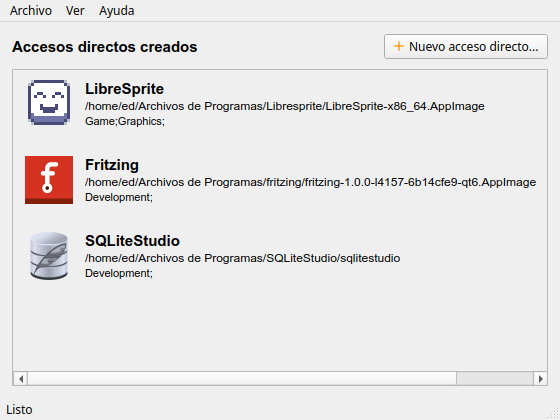
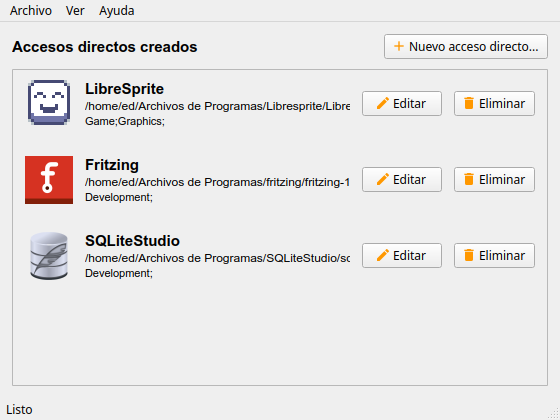
feat: editar accesos directos y empaquetado .deb con PyInstaller

diff --git a/main.py b/main.py
@@ -27,6 +27,7 @@ from PyQt6.QtWidgets import (
     QMessageBox,
     QPushButton,
     QScrollArea,
+    QSizePolicy,
     QVBoxLayout,
     QWidget,
 )
@@ -37,13 +38,21 @@ PROGRAM_VERSION = "0.2.0"
 PROGRAM_DESCRIPTION = "Programa que registra en los menús de Gnome/Xfce Aplicaciones descargadas"
 PROGRAM_CREDITS = "Idea y programación: @Edfasano70"
 
-RESOURCES_DIR = Path(__file__).resolve().parent / "resources"
+def _base_dir() -> Path:
+    """Directory that holds bundled resources (handles PyInstaller builds)."""
+    if getattr(sys, "frozen", False):
+        return Path(getattr(sys, "_MEIPASS", Path(__file__).resolve().parent))
+    return Path(__file__).resolve().parent
+
+
+BASE_DIR = _base_dir()
+RESOURCES_DIR = BASE_DIR / "resources"
 ICONS_DIR = RESOURCES_DIR / "icons"
 LOGO_FILE = RESOURCES_DIR / "logo.png"
 
 CONFIG_DIR = Path.home() / ".config" / "dotdesktop"
 CONFIG_FILE = CONFIG_DIR / "config.xml"
-REGISTRY_FILE = Path(__file__).resolve().parent / "launchers.json"
+REGISTRY_FILE = CONFIG_DIR / "launchers.json"
 
 APPLICATIONS_DIR = Path.home() / ".local" / "share" / "applications"
 
@@ -208,8 +217,13 @@ def create_desktop_entry(
     icon_path: str = "",
     categories: str = DEFAULT_CATEGORIES,
     overwrite: bool = False,
+    previous_filename: str | None = None,
 ) -> Path:
-    """Write a .desktop launcher under APPLICATIONS_DIR and return its path."""
+    """Write a .desktop launcher under APPLICATIONS_DIR and return its path.
+
+    When ``previous_filename`` is given (editing), the old file is removed if the
+    generated name changed, and its registry entry is replaced.
+    """
     name = name.strip()
     if not name:
         raise ValueError("El nombre no puede estar vacío")
@@ -222,7 +236,8 @@ def create_desktop_entry(
 
     APPLICATIONS_DIR.mkdir(parents=True, exist_ok=True)
     dest = APPLICATIONS_DIR / f"{_slugify(name)}.desktop"
-    if dest.exists() and not overwrite:
+    is_same_file = previous_filename is not None and dest.name == previous_filename
+    if dest.exists() and not is_same_file and not overwrite:
         raise FileExistsError(dest)
 
     dest.write_text(build_desktop_entry(name, exec_path, icon_path, categories), encoding="utf-8")
@@ -230,12 +245,19 @@ def create_desktop_entry(
     refresh_desktop_database()
 
     registry = load_registry()
+    if previous_filename is not None and previous_filename != dest.name:
+        registry.pop(previous_filename, None)
+        old_path = APPLICATIONS_DIR / previous_filename
+        if old_path.exists():
+            old_path.unlink()
+
+    existing = registry.get(dest.name, {})
     registry[dest.name] = {
         "name": name,
         "exec": exec_path,
         "icon": icon_path,
         "categories": _normalize_categories(categories),
-        "created": datetime.now().isoformat(timespec="seconds"),
+        "created": existing.get("created", datetime.now().isoformat(timespec="seconds")),
     }
     save_registry(registry)
     return dest
@@ -340,11 +362,19 @@ class HelpDialog(QDialog):
 
 
 class LauncherDialog(QDialog):
-    """Formulario para crear un acceso directo .desktop."""
+    """Formulario para crear o editar un acceso directo .desktop."""
 
-    def __init__(self, parent=None, dark_mode: bool = False) -> None:
+    def __init__(
+        self,
+        parent=None,
+        dark_mode: bool = False,
+        filename: str | None = None,
+        info: dict | None = None,
+    ) -> None:
         super().__init__(parent)
-        self.setWindowTitle("Nuevo acceso directo")
+        self.filename = filename
+        editing = filename is not None and info is not None
+        self.setWindowTitle("Editar acceso directo" if editing else "Nuevo acceso directo")
         self.setWindowIcon(_logo_icon())
         self.setMinimumWidth(460)
         self.setWindowFlags(self.windowFlags() & ~Qt.WindowType.WindowContextHelpButtonHint)
@@ -375,15 +405,26 @@ class LauncherDialog(QDialog):
         cancel_btn.setFixedWidth(90)
         cancel_btn.clicked.connect(self.reject)
         buttons.addWidget(cancel_btn)
-        create_btn = QPushButton("Crear")
-        create_btn.setFixedWidth(90)
-        create_btn.setDefault(True)
-        create_btn.clicked.connect(self._create)
-        buttons.addWidget(create_btn)
+        save_btn = QPushButton("Guardar" if editing else "Crear")
+        save_btn.setFixedWidth(90)
+        save_btn.setDefault(True)
+        save_btn.clicked.connect(self._create)
+        buttons.addWidget(save_btn)
         layout.addLayout(buttons)
+
+        if editing:
+            self._apply_info(info)
 
         if dark_mode:
             self.setStyleSheet(DARK_STYLE)
+
+    def _apply_info(self, info: dict) -> None:
+        self.name_edit.setText(info.get("name", ""))
+        self.exec_edit.setText(info.get("exec", ""))
+        self.icon_edit.setText(info.get("icon", ""))
+        selected = {item for item in info.get("categories", "").split(";") if item}
+        for category, check in self.category_checks.items():
+            check.setChecked(category in selected)
 
     def _with_browse(self, field: QLineEdit, handler) -> QWidget:
         container = QWidget()
@@ -446,8 +487,9 @@ class LauncherDialog(QDialog):
                 return
 
         dest = APPLICATIONS_DIR / f"{_slugify(name)}.desktop"
+        is_same_file = self.filename is not None and dest.name == self.filename
         overwrite = False
-        if dest.exists():
+        if dest.exists() and not is_same_file:
             confirm = QMessageBox.question(
                 self,
                 "Ya existe",
@@ -458,21 +500,23 @@ class LauncherDialog(QDialog):
             overwrite = True
 
         try:
-            created = create_desktop_entry(
+            saved = create_desktop_entry(
                 name,
                 exec_path,
                 self.icon_edit.text(),
                 self._selected_categories(),
                 overwrite=overwrite,
+                previous_filename=self.filename,
             )
         except (ValueError, OSError) as error:
-            QMessageBox.critical(self, "Error", f"No se pudo crear el acceso directo:\n{error}")
+            QMessageBox.critical(self, "Error", f"No se pudo guardar el acceso directo:\n{error}")
             return
 
+        action = "actualizó" if self.filename is not None else "creó"
         QMessageBox.information(
             self,
-            "Acceso directo creado",
-            f"Se creó '{created.name}' en:\n{created.parent}",
+            f"Acceso directo {'actualizado' if self.filename else 'creado'}",
+            f"Se {action} '{saved.name}' en:\n{saved.parent}",
         )
         self.accept()
 
@@ -480,7 +524,7 @@ class LauncherDialog(QDialog):
 class LauncherCard(QFrame):
     """Tarjeta que representa un acceso directo creado por el programa."""
 
-    def __init__(self, filename: str, info: dict, on_delete) -> None:
+    def __init__(self, filename: str, info: dict, on_edit, on_delete) -> None:
         super().__init__()
         self.filename = filename
         self.setObjectName("launcherCard")
@@ -507,13 +551,23 @@ class LauncherCard(QFrame):
         exec_label.setFont(QFont("Arial", 9))
         text_layout.addWidget(exec_label)
 
+        labels = [name_label, exec_label]
         categories = info.get("categories", "")
         if categories:
             category_label = QLabel(categories)
             category_label.setFont(QFont("Arial", 8))
             text_layout.addWidget(category_label)
+            labels.append(category_label)
+
+        for label in labels:
+            label.setSizePolicy(QSizePolicy.Policy.Ignored, QSizePolicy.Policy.Preferred)
+            label.setToolTip(label.text())
 
         layout.addLayout(text_layout, 1)
+
+        edit_btn = QPushButton(_icon("edit"), "Editar")
+        edit_btn.clicked.connect(lambda: on_edit(self.filename))
+        layout.addWidget(edit_btn)
 
         delete_btn = QPushButton(_icon("delete"), "Eliminar")
         delete_btn.clicked.connect(lambda: on_delete(self.filename))
@@ -585,6 +639,7 @@ class MainWindow(QMainWindow):
 
         self.scroll = QScrollArea()
         self.scroll.setWidgetResizable(True)
+        self.scroll.setHorizontalScrollBarPolicy(Qt.ScrollBarPolicy.ScrollBarAlwaysOff)
         self.scroll.setWidget(self.cards_container)
         outer.addWidget(self.scroll)
 
@@ -606,8 +661,17 @@ class MainWindow(QMainWindow):
             return
 
         for filename, info in registry.items():
-            card = LauncherCard(filename, info, self._delete_launcher)
+            card = LauncherCard(filename, info, self._edit_launcher, self._delete_launcher)
             self.cards_layout.insertWidget(self.cards_layout.count() - 1, card)
+
+    def _edit_launcher(self, filename: str) -> None:
+        info = load_registry().get(filename)
+        if info is None:
+            self._refresh_cards()
+            return
+        dialog = LauncherDialog(self, dark_mode=self.dark_mode, filename=filename, info=info)
+        if dialog.exec() == QDialog.DialogCode.Accepted:
+            self._refresh_cards()
 
     def _delete_launcher(self, filename: str) -> None:
         info = load_registry().get(filename, {})

diff --git a/tests/test_main.py b/tests/test_main.py
@@ -1,6 +1,7 @@
 import xml.etree.ElementTree as ET
 
 import pytest
+from PyQt6.QtWidgets import QPushButton
 
 import main
 from main import AboutDialog, HelpDialog, LauncherDialog, MainWindow
@@ -142,6 +143,55 @@ def test_launcher_category_checkboxes(qapp):
     dialog.category_checks["Game"].setChecked(True)
     dialog.category_checks["Graphics"].setChecked(True)
     assert dialog._selected_categories() == "Game;Graphics;"
+
+
+def test_launcher_dialog_prefills_when_editing(qapp):
+    info = {
+        "name": "Mi Editor",
+        "exec": "/opt/editor",
+        "icon": "/tmp/i.png",
+        "categories": "Game;Graphics;",
+    }
+    dialog = LauncherDialog(filename="mi-editor.desktop", info=info)
+    assert dialog.windowTitle() == "Editar acceso directo"
+    assert dialog.name_edit.text() == "Mi Editor"
+    assert dialog.exec_edit.text() == "/opt/editor"
+    assert dialog.icon_edit.text() == "/tmp/i.png"
+    assert dialog._selected_categories() == "Game;Graphics;"
+
+
+def test_card_has_edit_and_delete_buttons(qapp):
+    card = main.LauncherCard("x.desktop", {"name": "X"}, lambda f: None, lambda f: None)
+    labels = {button.text() for button in card.findChildren(QPushButton)}
+    assert {"Editar", "Eliminar"} <= labels
+
+
+def test_create_desktop_entry_renames(tmp_path, monkeypatch):
+    monkeypatch.setattr(main, "APPLICATIONS_DIR", tmp_path)
+    monkeypatch.setattr(main, "refresh_desktop_database", lambda: None)
+    old = main.create_desktop_entry("Mi Editor", "/usr/bin/editor")
+
+    new = main.create_desktop_entry(
+        "Mi Editor Nuevo", "/usr/bin/editor", previous_filename=old.name
+    )
+    assert new.name == "mi-editor-nuevo.desktop"
+    assert not old.exists()
+    registry = main.load_registry()
+    assert list(registry) == ["mi-editor-nuevo.desktop"]
+    assert registry[new.name]["name"] == "Mi Editor Nuevo"
+
+
+def test_create_desktop_entry_edit_same_name(tmp_path, monkeypatch):
+    monkeypatch.setattr(main, "APPLICATIONS_DIR", tmp_path)
+    monkeypatch.setattr(main, "refresh_desktop_database", lambda: None)
+    dest = main.create_desktop_entry("Mi Editor", "/usr/bin/editor", categories="Game;")
+
+    again = main.create_desktop_entry(
+        "Mi Editor", "/usr/bin/other", categories="Utility;", previous_filename=dest.name
+    )
+    assert again == dest
+    assert "Exec=/usr/bin/other" in dest.read_text(encoding="utf-8")
+    assert main.load_registry()[dest.name]["categories"] == "Utility;"
 
 
 def test_create_desktop_entry(tmp_path, monkeypatch):

diff --git a/README.md b/README.md
@@ -25,6 +25,7 @@ Idea y programación: **@Edfasano70**
 - Escapa los campos según la especificación *Desktop Entry*.
 - Refresca el menú con `update-desktop-database` si está disponible.
 - Registra los accesos creados y los muestra como tarjetas en la pantalla principal.
+- Permite editar los accesos creados (renombra el `.desktop` si cambia el nombre).
 - Permite eliminar los accesos creados (borra el `.desktop` y su registro).
 - Tema claro/oscuro y geometría de ventana persistentes.
 
@@ -58,7 +59,7 @@ En la ventana principal, usa **Archivo → Nuevo acceso directo...** (o el botó
 3. **Ícono** (opcional) — PNG o SVG.
 4. **Categorías** — una o varias casillas.
 
-El acceso aparece listado como tarjeta y se puede eliminar con su botón **Eliminar**.
+El acceso aparece listado como tarjeta y se puede **Editar** o **Eliminar** con sus botones.
 
 ## Estructura del proyecto
 
@@ -69,6 +70,10 @@ resources/
 ├── logo.svg                # fuente editable del logo
 └── icons/                  # íconos de menú en SVG
 docs/screenshots/           # capturas para el README
+packaging/
+├── build_deb.sh            # compila con PyInstaller y genera el .deb
+├── dotdesktop.desktop      # entrada de menú instalada
+├── postinst / postrm       # scripts de mantenimiento del paquete
 src/                        # vacío, reservado para módulos futuros
 tests/                      # pytest
 pyproject.toml              # ruff + pytest + metadatos
@@ -86,8 +91,23 @@ ruff check .                 # lint
 ruff format .                # formato
 ```
 
+## Empaquetado (.deb)
+
+Requiere `pyinstaller` y `dpkg-deb` (`dpkg-dev`):
+
+```bash
+python3 -m pip install --user --break-system-packages pyinstaller
+./packaging/build_deb.sh
+```
+
+El script compila un binario autónomo con PyInstaller y genera
+`packages/dotdesktop_<versión>_<arquitectura>.deb` (la carpeta `packages/` está
+ignorada por git). El paquete instala la app en `/opt/dotdesktop`, crea
+`/usr/bin/dotdesktop`, la entrada de menú en `/usr/share/applications` y el ícono en
+`/usr/share/icons/hicolor`.
+
 ## Persistencia
 
 - Preferencias (geometría de ventana y tema): `~/.config/dotdesktop/config.xml`.
-- Accesos directos creados por el programa: `launchers.json` (ignorado por git).
+- Registro de accesos creados por el programa: `~/.config/dotdesktop/launchers.json`.
 - Archivos `.desktop`: `~/.local/share/applications`.

diff --git a/AGENTS.md b/AGENTS.md
@@ -29,6 +29,7 @@ No install step needed: run and test from the repo root. Run `ruff check .` befo
 - Never build widgets at import time; `import main` must not open a window (tests rely on this).
 - `config.xml` (window geometry + `dark_mode`) lives in `~/.config/dotdesktop/` and is written on `closeEvent`; tests redirect `main.CONFIG_FILE` to a temp path via monkeypatch. The directory is created on save.
 - Launchers are written to `APPLICATIONS_DIR` (`~/.local/share/applications`, module constant so tests monkeypatch it). `create_desktop_entry` raises `ValueError`/`FileExistsError`; the dialog handles overwrite confirmation. Always escape launcher fields via `_escape_desktop_value` / `_escape_exec_arg`.
-- Created launchers are tracked in `REGISTRY_FILE` (`launchers.json`, gitignored, monkeypatched in tests). `load_registry` auto-drops entries whose `.desktop` no longer exists; `MainWindow` renders each entry as a `LauncherCard` and `delete_desktop_entry` removes both file and entry.
+- Created launchers are tracked in `REGISTRY_FILE` (`~/.config/dotdesktop/launchers.json`; module constant, monkeypatched in tests). `load_registry` auto-drops entries whose `.desktop` no longer exists; `MainWindow` renders each entry as a `LauncherCard` with Editar/Eliminar. Editing passes `previous_filename` to `create_desktop_entry` (renames the file when the slug changes); `delete_desktop_entry` removes both file and entry.
 - Menu action icons are loaded from SVG files by name; a missing icon silently yields an empty `QIcon` and breaks `test_menu_actions_have_icons` (which skips separators).
-- This directory is not a git repository — don't assume git commands work.
+- `RESOURCES_DIR` derives from `_base_dir()`, which uses `sys._MEIPASS` when frozen so bundled resources resolve in the PyInstaller build (`packaging/build_deb.sh`, output to `packages/`, gitignored).
+- This directory is a git repo (remote `origin`), but `packages/`, `build/` and the app state under `~/.config/dotdesktop/` are untracked.
